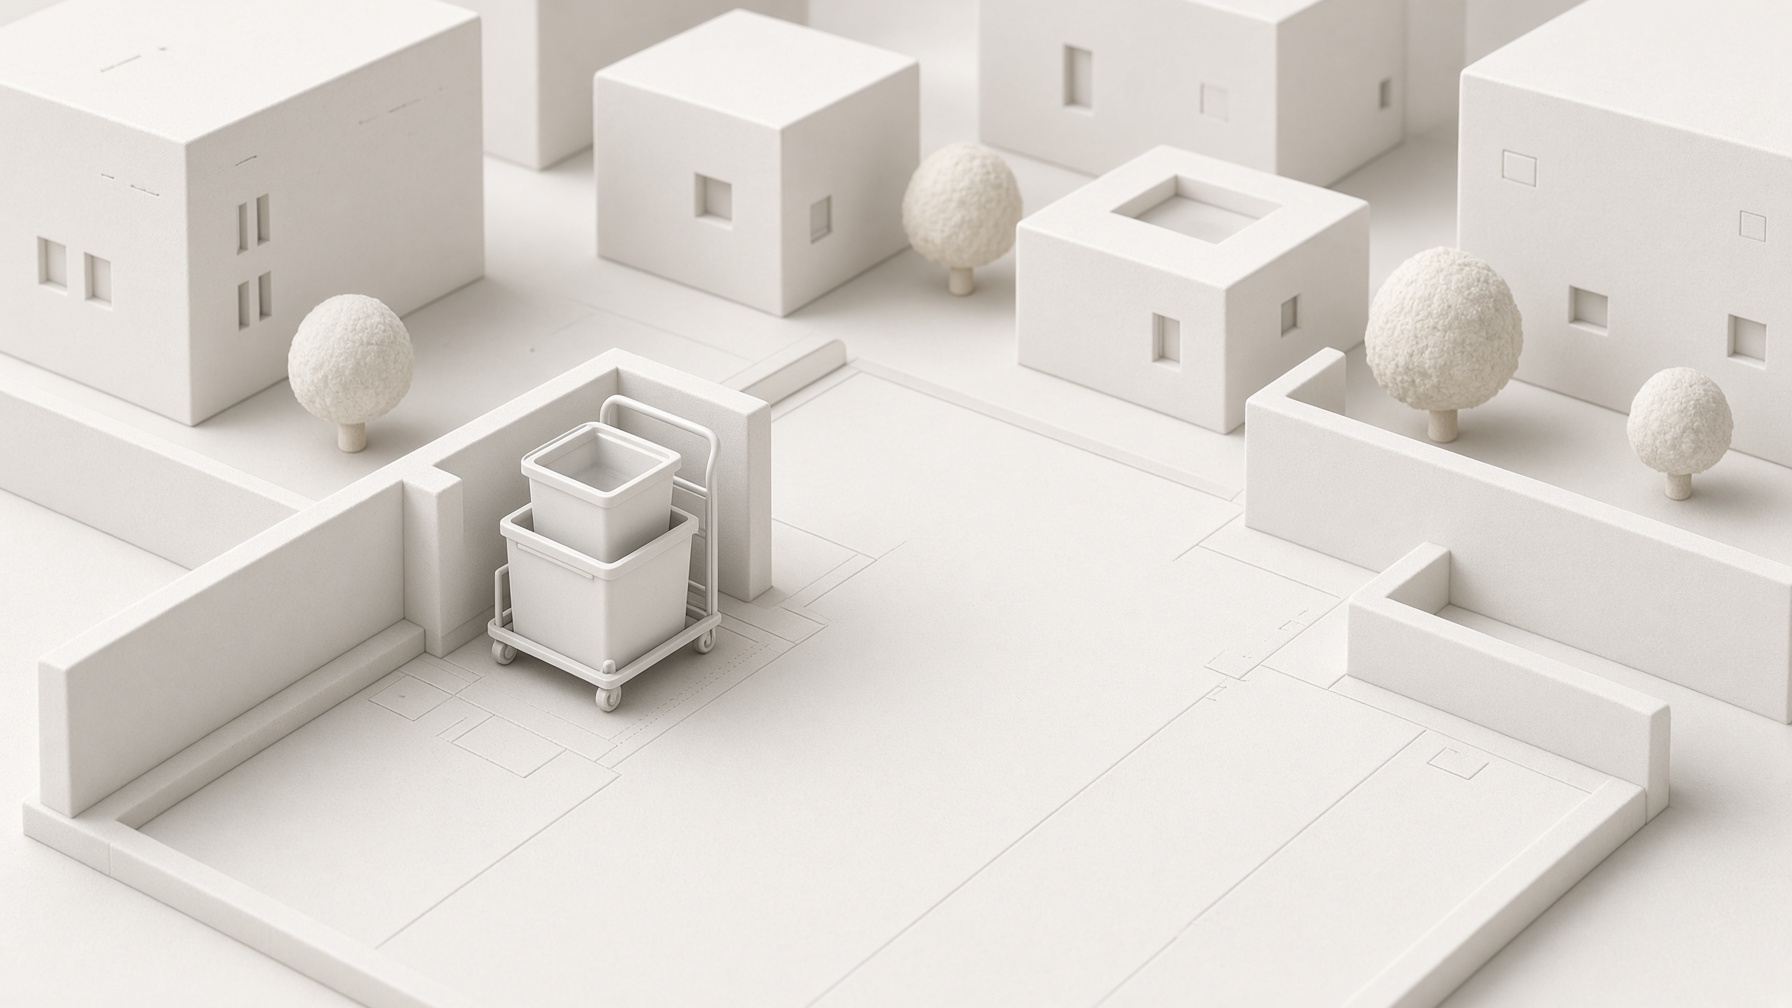
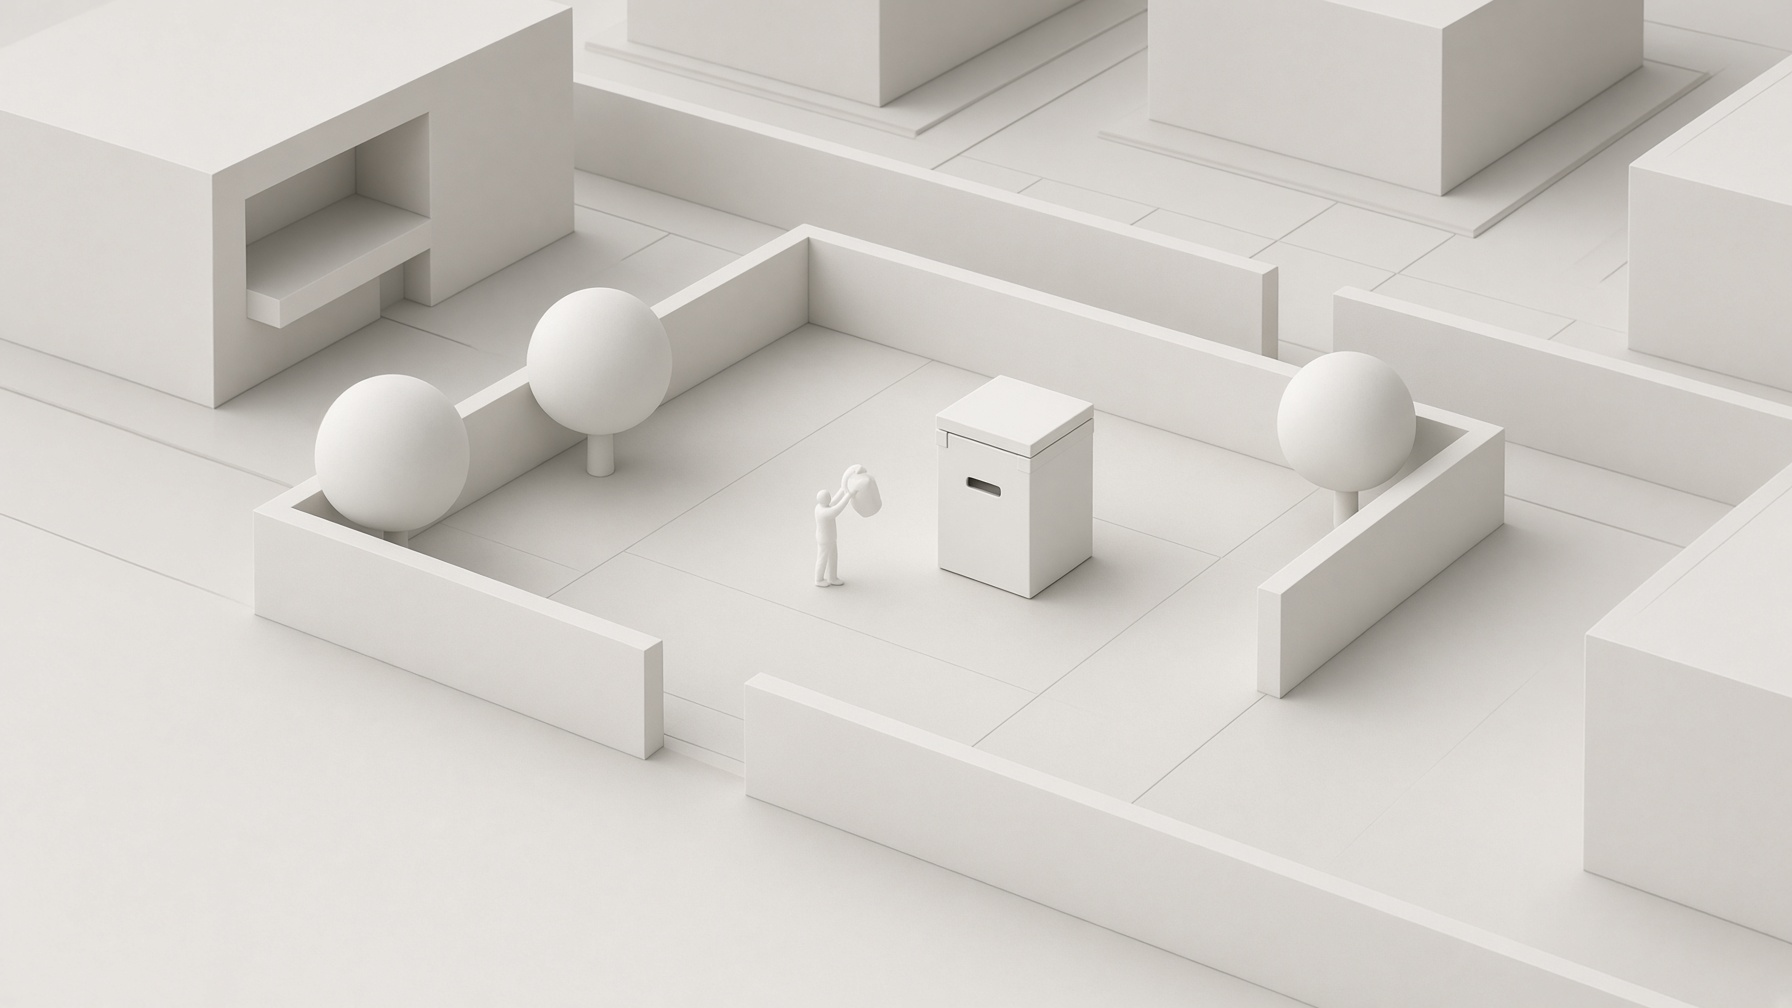
凌晨12:25：子母車改單桶加人像，套房詳情加使用規範

diff --git a/app.js b/app.js
@@ -12,10 +12,11 @@ const BOOK_ACCOUNTS = ["統潔", "信潔", "聯名戶", "個人戶", "現金(保
 const REPORT_ACCOUNTS = ["統潔", "信潔", "個人戶", "現金(保險箱)"];
 const PERSONAL_PEOPLE = ["趙文榮", "趙洪漳", "趙浩鈞", "趙文彬", "趙苡真", "趙海成、趙正賢", "江秀霞", "黃思敏"];
 const PERSONAL_ACCOUNTS = PERSONAL_PEOPLE.map(p => "個人戶·" + p);
-const APP_VERSION = "2026-08-29-凌晨12:20";
+const APP_VERSION = "2026-08-29-凌晨12:25";
 const TENANT_ROSTER_VER = "20260828-2030";
 const FACTORY_ROSTER_VER = "20260828-2030";
 const CHANGELOG = [
+  { ver: "2026-08-29-凌晨12:25", items: ["子母車改為單桶與提垃圾人像", "套房詳情新增基本使用規範"] },
   { ver: "2026-08-29-凌晨12:20", items: ["套房與公共陽台照片改為白色簡約建模風格"] },
   { ver: "2026-08-29-凌晨12:15", items: ["房間新增子母車（垃圾桶）與使用規範"] },
   { ver: "2026-08-29-凌晨12:10", items: ["房間停車位改為白色簡約建模照片"] },
@@ -3172,7 +3173,7 @@ function roomsView() {
         <span class="badge rented">已配</span>
       </div>
       <div class="room-row clickable room-seq s4" data-page="trash" style="margin-top:12px">
-        <img src="images/trash-cart.jpg" alt="子母車" />
+        <img src="images/trash-cart.jpg?v=1225" alt="子母車" />
         <div class="room-row-info">
           <strong>子母車</strong>
           <span class="small">垃圾桶</span>
@@ -3215,9 +3216,9 @@ function trashView() {
       <div class="eyebrow">TRASH</div><h1>子母車</h1>
     </div></div>
     <div class="screen">
-      <div class="photos slide-left"><img src="images/trash-cart.jpg" alt="子母車" /></div>
+      <div class="photos slide-left"><img src="images/trash-cart.jpg?v=1225" alt="子母車" /></div>
       <div class="room-row slide-left" style="margin-top:14px">
-        <img src="images/trash-cart.jpg" alt="子母車" />
+        <img src="images/trash-cart.jpg?v=1225" alt="子母車" />
         <div class="room-row-info">
           <strong>子母車</strong>
           <span class="small">垃圾桶</span>
@@ -3291,6 +3292,15 @@ function roomDetailView(id) {
         <div class="row"><span class="k">帳號</span><span class="v">${r.no}</span></div>
         <div class="row"><span class="k">密碼</span><span class="v">123456789</span></div>
       </div>
+      ${r.kind === "factory" || r.status === "office" ? "" : `<div class="section-title"><h2>使用規範</h2></div>
+      <div class="card card-body rules">
+        <p>1. 本房為獨立套房，請愛惜房間設備與裝潢。</p>
+        <p>2. 房間內禁止抽菸；簡易加熱可以，請勿開放式烹煮油煙。</p>
+        <p>3. 垃圾請裝袋後拿到子母車，勿堆在門口或走廊。</p>
+        <p>4. 冷氣、熱水器請正常使用，損壞請從 App 報修，勿自行拆修。</p>
+        <p>5. 請保持安靜，晚上 9 點後避免大聲喧嘩。</p>
+        <p>6. 訪客請由承租人陪同，房間不得轉租或借住。</p>
+      </div>`}
     </div>`;
 }
 function leaseView() {

diff --git a/index.html b/index.html
@@ -13,7 +13,7 @@
   <link rel="manifest" href="manifest.json" />
   <link rel="apple-touch-icon" href="apple-touch-icon.png" />
   <title>統潔＆信潔開發有限公司 — 租房管理</title>
-  <link rel="stylesheet" href="app.css?v=1220" />
+  <link rel="stylesheet" href="app.css?v=1225" />
   <style>
     html, body { margin: 0; background: #ffffff; }
     #splash {
@@ -44,7 +44,7 @@
     </svg>
   </div>
   <div id="app"></div>
-  <!-- build 2026-08-29-凌晨12:20 -->
-  <script src="app.js?v=1220"></script>
+  <!-- build 2026-08-29-凌晨12:25 -->
+  <script src="app.js?v=1225"></script>
 </body>
 </html>

diff --git a/sw.js b/sw.js
@@ -1,5 +1,5 @@
-const CACHE = "tongjie-app-v79";
-const BUILD = "20260829-0020";
+const CACHE = "tongjie-app-v80";
+const BUILD = "20260829-0025";
 const FILES = ["/", "/index.html", "/app.css", "/app.js", "/manifest.json", "/icon-192.png", "/icon-512.png", "/icon-maskable-512.png"];
 self.addEventListener("install", e => {
   self.skipWaiting();
